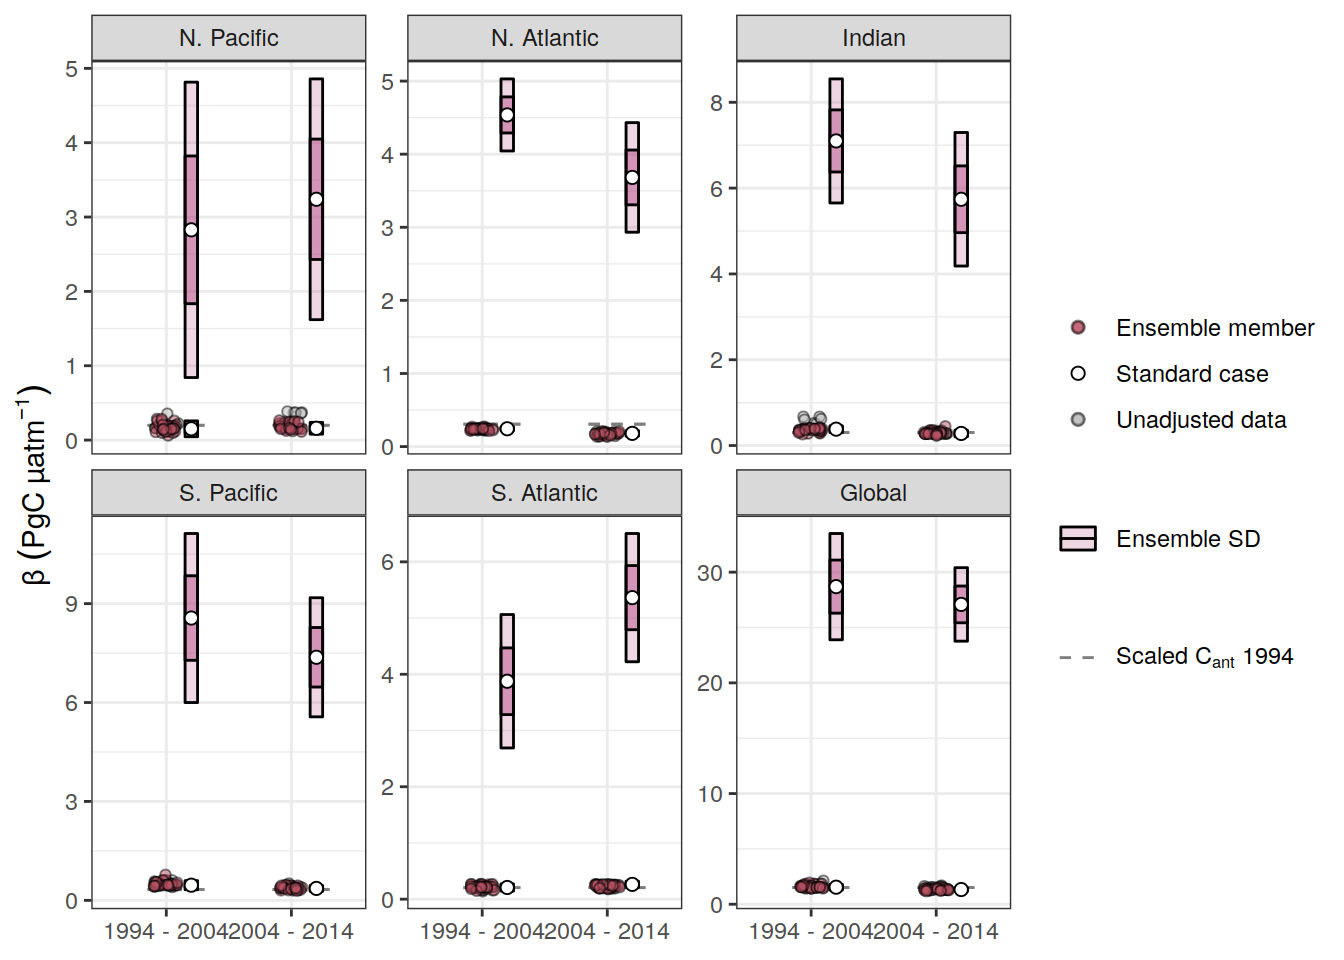
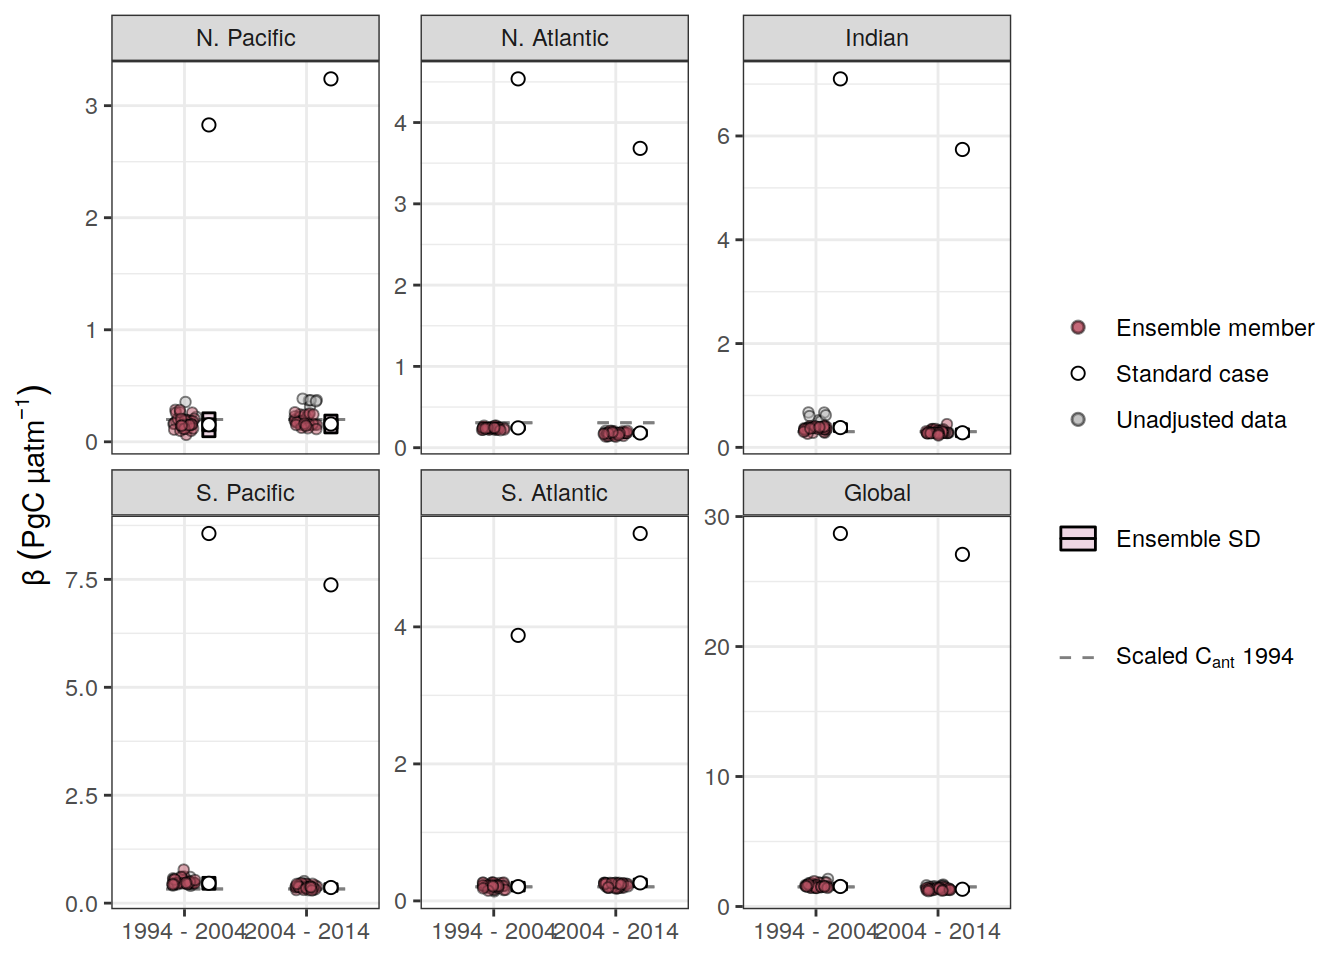
Build site.

diff --git a/docs/results_publication.html b/docs/results_publication.html
@@ -782,16 +782,16 @@ This reproducible <a href="https://rmarkdown.rstudio.com">R Markdown</a> analysi
 <div class="panel panel-default">
 <div class="panel-heading">
 <p class="panel-title">
-<a data-toggle="collapse" data-parent="#workflowr-checks" href="#strongRepositoryversionstrongahrefhttpsgithubcomjensdanielmuelleremlrobsanalysistreef9c054557a50b519971afe366d24a1a1a413f030targetblankf9c0545a"> <span class="glyphicon glyphicon-ok text-success" aria-hidden="true"></span> <strong>Repository version:</strong> <a href="https://github.com/jens-daniel-mueller/emlr_obs_analysis/tree/f9c054557a50b519971afe366d24a1a1a413f030" target="_blank">f9c0545</a> </a>
+<a data-toggle="collapse" data-parent="#workflowr-checks" href="#strongRepositoryversionstrongahrefhttpsgithubcomjensdanielmuelleremlrobsanalysistree36691bf9fa3848c15f1371cb7ca48301964a5b53targetblank36691bfa"> <span class="glyphicon glyphicon-ok text-success" aria-hidden="true"></span> <strong>Repository version:</strong> <a href="https://github.com/jens-daniel-mueller/emlr_obs_analysis/tree/36691bf9fa3848c15f1371cb7ca48301964a5b53" target="_blank">36691bf</a> </a>
 </p>
 </div>
[2 lines of base64/hex data omitted]
 <div class="panel-body">
 <p>
 Great! You are using Git for version control. Tracking code development and connecting the code version to the results is critical for reproducibility.
 </p>
 <p>
-The results in this page were generated with repository version <a href="https://github.com/jens-daniel-mueller/emlr_obs_analysis/tree/f9c054557a50b519971afe366d24a1a1a413f030" target="_blank">f9c0545</a>. See the <em>Past versions</em> tab to see a history of the changes made to the R Markdown and HTML files.
+The results in this page were generated with repository version <a href="https://github.com/jens-daniel-mueller/emlr_obs_analysis/tree/36691bf9fa3848c15f1371cb7ca48301964a5b53" target="_blank">36691bf</a>. See the <em>Past versions</em> tab to see a history of the changes made to the R Markdown and HTML files.
 </p>
 <p>
 Note that you need to be careful to ensure that all relevant files for the analysis have been committed to Git prior to generating the results (you can use <code>wflow_publish</code> or <code>wflow_git_commit</code>). workflowr only checks the R Markdown file, but you know if there are other scripts or data files that it depends on. Below is the status of the Git repository when the results were generated:
@@ -849,6 +849,40 @@ Message
 </tr>
 </thead>
 <tbody>
+<tr>
+<td>
+Rmd
+</td>
+<td>
+<a href="https://github.com/jens-daniel-mueller/emlr_obs_analysis/blob/36691bf9fa3848c15f1371cb7ca48301964a5b53/analysis/results_publication.Rmd" target="_blank">36691bf</a>
+</td>
+<td>
+jens-daniel-mueller
+</td>
+<td>
+2022-07-20
+</td>
+<td>
+revised plots
+</td>
+</tr>
+<tr>
+<td>
+html
+</td>
+<td>
+<a href="https://rawcdn.githack.com/jens-daniel-mueller/emlr_obs_analysis/a80b59baeb190e3f47e0b2476734916a9d0beb09/docs/results_publication.html" target="_blank">a80b59b</a>
+</td>
+<td>
+jens-daniel-mueller
+</td>
+<td>
+2022-07-20
+</td>
+<td>
+Build site.
+</td>
+</tr>
 <tr>
 <td>
 Rmd
@@ -11532,6 +11566,17 @@ Date
 <tbody>
 <tr>
 <td>
+<a href="https://github.com/jens-daniel-mueller/emlr_obs_analysis/blob/a80b59baeb190e3f47e0b2476734916a9d0beb09/docs/figure/results_publication.Rmd/dcant_budget_stats-1.png" target="_blank">a80b59b</a>
+</td>
+<td>
+jens-daniel-mueller
+</td>
+<td>
+2022-07-20
+</td>
+</tr>
+<tr>
+<td>
 <a href="https://github.com/jens-daniel-mueller/emlr_obs_analysis/blob/fea41c1b8dcf55dd33f32ab73fabb10bbb5bf139/docs/figure/results_publication.Rmd/dcant_budget_stats-1.png" target="_blank">fea41c1</a>
 </td>
 <td>
@@ -14656,6 +14701,17 @@ Date
 <tbody>
 <tr>
 <td>
+<a href="https://github.com/jens-daniel-mueller/emlr_obs_analysis/blob/a80b59baeb190e3f47e0b2476734916a9d0beb09/docs/figure/results_publication.Rmd/beta_budget_stats-1.png" target="_blank">a80b59b</a>
+</td>
+<td>
+jens-daniel-mueller
+</td>
+<td>
+2022-07-20
+</td>
+</tr>
+<tr>
+<td>
 <a href="https://github.com/jens-daniel-mueller/emlr_obs_analysis/blob/fea41c1b8dcf55dd33f32ab73fabb10bbb5bf139/docs/figure/results_publication.Rmd/beta_budget_stats-1.png" target="_blank">fea41c1</a>
 </td>
 <td>
@@ -14746,6 +14802,17 @@ Date
 <tbody>
 <tr>
 <td>
+<a href="https://github.com/jens-daniel-mueller/emlr_obs_analysis/blob/a80b59baeb190e3f47e0b2476734916a9d0beb09/docs/figure/results_publication.Rmd/beta_budget_stats-2.png" target="_blank">a80b59b</a>
+</td>
+<td>
+jens-daniel-mueller
+</td>
+<td>
+2022-07-20
+</td>
+</tr>
+<tr>
+<td>
 <a href="https://github.com/jens-daniel-mueller/emlr_obs_analysis/blob/fea41c1b8dcf55dd33f32ab73fabb10bbb5bf139/docs/figure/results_publication.Rmd/beta_budget_stats-2.png" target="_blank">fea41c1</a>
 </td>
 <td>
@@ -14803,7 +14870,8 @@ jens-daniel-mueller
     position = position_jitter(width = 0.1, height = 0)
   ) +
   geom_crossbar(
-    data = beta_budget_ensemble_stat,
+    data = beta_budget_ensemble_stat %&gt;% 
+      filter(estimate == &quot;beta&quot;),
     aes(
       x = period,
       y = std_case,
@@ -14817,7 +14885,8 @@ jens-daniel-mueller
     position = position_nudge(x = 0.2)
   ) +
   geom_crossbar(
-    data = beta_budget_ensemble_stat,
+    data = beta_budget_ensemble_stat %&gt;% 
+      filter(estimate == &quot;beta&quot;),
     aes(
       x = period,
       y = std_case,
@@ -14877,6 +14946,17 @@ Date
 </tr>
 </thead>
 <tbody>
+<tr>
+<td>
+<a href="https://github.com/jens-daniel-mueller/emlr_obs_analysis/blob/a80b59baeb190e3f47e0b2476734916a9d0beb09/docs/figure/results_publication.Rmd/beta_ensemble_scatter_plot-1.png" target="_blank">a80b59b</a>
+</td>
+<td>
+jens-daniel-mueller
+</td>
+<td>
+2022-07-20
+</td>
+</tr>
 <tr>
 <td>
 <a href="https://github.com/jens-daniel-mueller/emlr_obs_analysis/blob/fea41c1b8dcf55dd33f32ab73fabb10bbb5bf139/docs/figure/results_publication.Rmd/beta_ensemble_scatter_plot-1.png" target="_blank">fea41c1</a>
@@ -19710,6 +19790,17 @@ Date
 <tbody>
 <tr>
 <td>
+<a href="https://github.com/jens-daniel-mueller/emlr_obs_analysis/blob/a80b59baeb190e3f47e0b2476734916a9d0beb09/docs/figure/results_publication.Rmd/mean_tcant_over_atm_co2-1.png" target="_blank">a80b59b</a>
+</td>
+<td>
+jens-daniel-mueller
+</td>
+<td>
+2022-07-20
+</td>
+</tr>
+<tr>
+<td>
 <a href="https://github.com/jens-daniel-mueller/emlr_obs_analysis/blob/fea41c1b8dcf55dd33f32ab73fabb10bbb5bf139/docs/figure/results_publication.Rmd/mean_tcant_over_atm_co2-1.png" target="_blank">fea41c1</a>
 </td>
 <td>
@@ -20339,7 +20430,7 @@ Ocean_Sink_cum_2004 &lt;- Ocean_Sink_cum_2004 %&gt;%
 tcant_min = tcant_ts_zoom %&gt;% pull(tcant) %&gt;% min()
 tcant_max =
   tcant_ts_zoom %&gt;% pull(tcant) %&gt;% max() +
-  tcant_ts_zoom %&gt;% pull(dcant_sd_int) %&gt;% max()
+  tcant_ts_zoom %&gt;% pull(dcant_sd) %&gt;% max()
 
 
 p_tcant_ts_zoom &lt;-
@@ -20423,6 +20514,17 @@ Date
 </tr>
 </thead>
 <tbody>
+<tr>
+<td>
+<a href="https://github.com/jens-daniel-mueller/emlr_obs_analysis/blob/a80b59baeb190e3f47e0b2476734916a9d0beb09/docs/figure/results_publication.Rmd/mean_tcant_over_atm_co2_incl_fluxes-1.png" target="_blank">a80b59b</a>
+</td>
+<td>
+jens-daniel-mueller
+</td>
+<td>
+2022-07-20
+</td>
+</tr>
 <tr>
 <td>
 <a href="https://github.com/jens-daniel-mueller/emlr_obs_analysis/blob/fea41c1b8dcf55dd33f32ab73fabb10bbb5bf139/docs/figure/results_publication.Rmd/mean_tcant_over_atm_co2_incl_fluxes-1.png" target="_blank">fea41c1</a>
@@ -21015,6 +21117,17 @@ Date
 </tr>
 </thead>
 <tbody>
+<tr>
+<td>
+<a href="https://github.com/jens-daniel-mueller/emlr_obs_analysis/blob/a80b59baeb190e3f47e0b2476734916a9d0beb09/docs/figure/results_publication.Rmd/mean_tcant_over_atm_co2_incl_fluxes_boxplot-1.png" target="_blank">a80b59b</a>
+</td>
+<td>
+jens-daniel-mueller
+</td>
+<td>
+2022-07-20
+</td>
+</tr>
 <tr>
 <td>
 <a href="https://github.com/jens-daniel-mueller/emlr_obs_analysis/blob/fea41c1b8dcf55dd33f32ab73fabb10bbb5bf139/docs/figure/results_publication.Rmd/mean_tcant_over_atm_co2_incl_fluxes_boxplot-1.png" target="_blank">fea41c1</a>

diff --git a/docs/index.html b/docs/index.html
@@ -698,16 +698,16 @@ This reproducible <a href="https://rmarkdown.rstudio.com">R Markdown</a> analysi
 <div class="panel panel-default">
 <div class="panel-heading">
 <p class="panel-title">
-<a data-toggle="collapse" data-parent="#workflowr-checks" href="#strongRepositoryversionstrongahrefhttpsgithubcomjensdanielmuelleremlrobsanalysistreef9c054557a50b519971afe366d24a1a1a413f030targetblankf9c0545a"> <span class="glyphicon glyphicon-ok text-success" aria-hidden="true"></span> <strong>Repository version:</strong> <a href="https://github.com/jens-daniel-mueller/emlr_obs_analysis/tree/f9c054557a50b519971afe366d24a1a1a413f030" target="_blank">f9c0545</a> </a>
+<a data-toggle="collapse" data-parent="#workflowr-checks" href="#strongRepositoryversionstrongahrefhttpsgithubcomjensdanielmuelleremlrobsanalysistree36691bf9fa3848c15f1371cb7ca48301964a5b53targetblank36691bfa"> <span class="glyphicon glyphicon-ok text-success" aria-hidden="true"></span> <strong>Repository version:</strong> <a href="https://github.com/jens-daniel-mueller/emlr_obs_analysis/tree/36691bf9fa3848c15f1371cb7ca48301964a5b53" target="_blank">36691bf</a> </a>
 </p>
 </div>
[2 lines of base64/hex data omitted]
 <div class="panel-body">
 <p>
 Great! You are using Git for version control. Tracking code development and connecting the code version to the results is critical for reproducibility.
 </p>
 <p>
-The results in this page were generated with repository version <a href="https://github.com/jens-daniel-mueller/emlr_obs_analysis/tree/f9c054557a50b519971afe366d24a1a1a413f030" target="_blank">f9c0545</a>. See the <em>Past versions</em> tab to see a history of the changes made to the R Markdown and HTML files.
+The results in this page were generated with repository version <a href="https://github.com/jens-daniel-mueller/emlr_obs_analysis/tree/36691bf9fa3848c15f1371cb7ca48301964a5b53" target="_blank">36691bf</a>. See the <em>Past versions</em> tab to see a history of the changes made to the R Markdown and HTML files.
 </p>
 <p>
 Note that you need to be careful to ensure that all relevant files for the analysis have been committed to Git prior to generating the results (you can use <code>wflow_publish</code> or <code>wflow_git_commit</code>). workflowr only checks the R Markdown file, but you know if there are other scripts or data files that it depends on. Below is the status of the Git repository when the results were generated:
@@ -765,6 +765,23 @@ Message
 </tr>
 </thead>
 <tbody>
+<tr>
+<td>
+html
+</td>
+<td>
+<a href="https://rawcdn.githack.com/jens-daniel-mueller/emlr_obs_analysis/a80b59baeb190e3f47e0b2476734916a9d0beb09/docs/index.html" target="_blank">a80b59b</a>
+</td>
+<td>
+jens-daniel-mueller
+</td>
+<td>
+2022-07-20
+</td>
+<td>
+Build site.
+</td>
+</tr>
 <tr>
 <td>
 html
